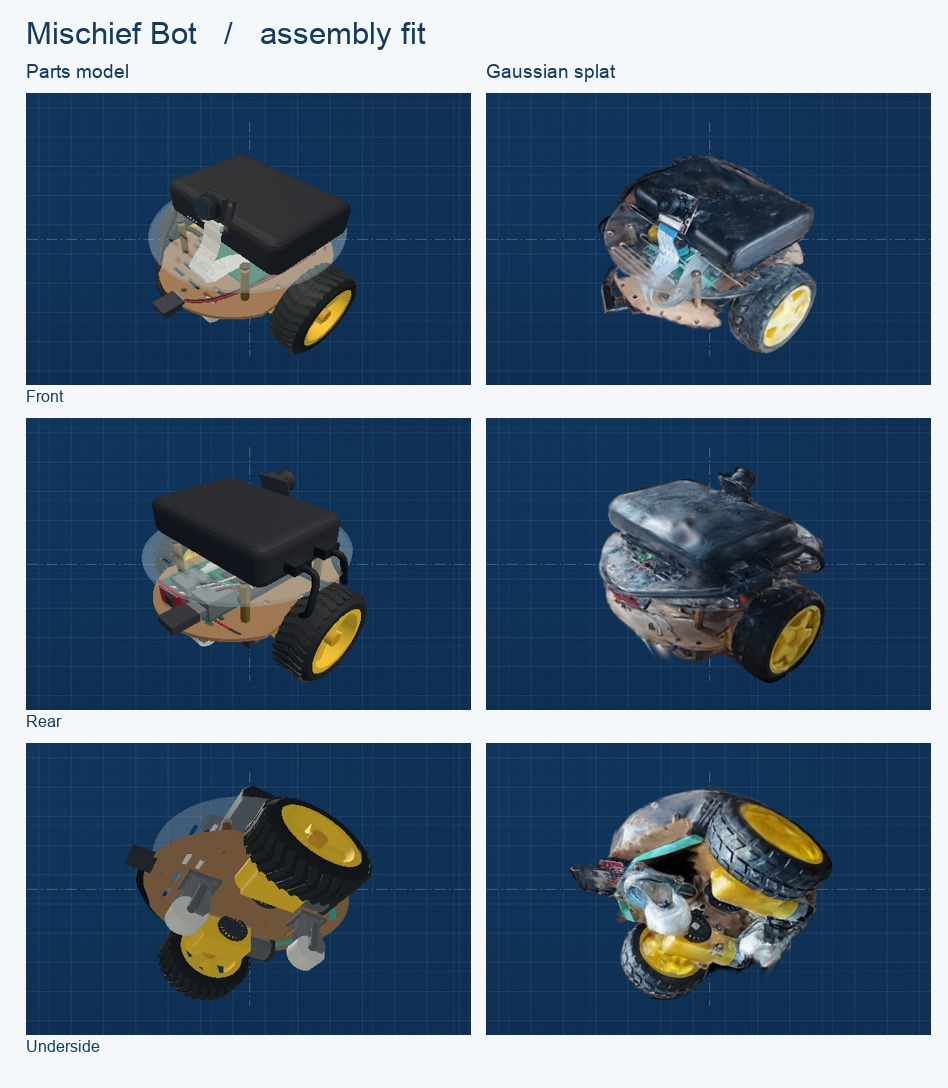
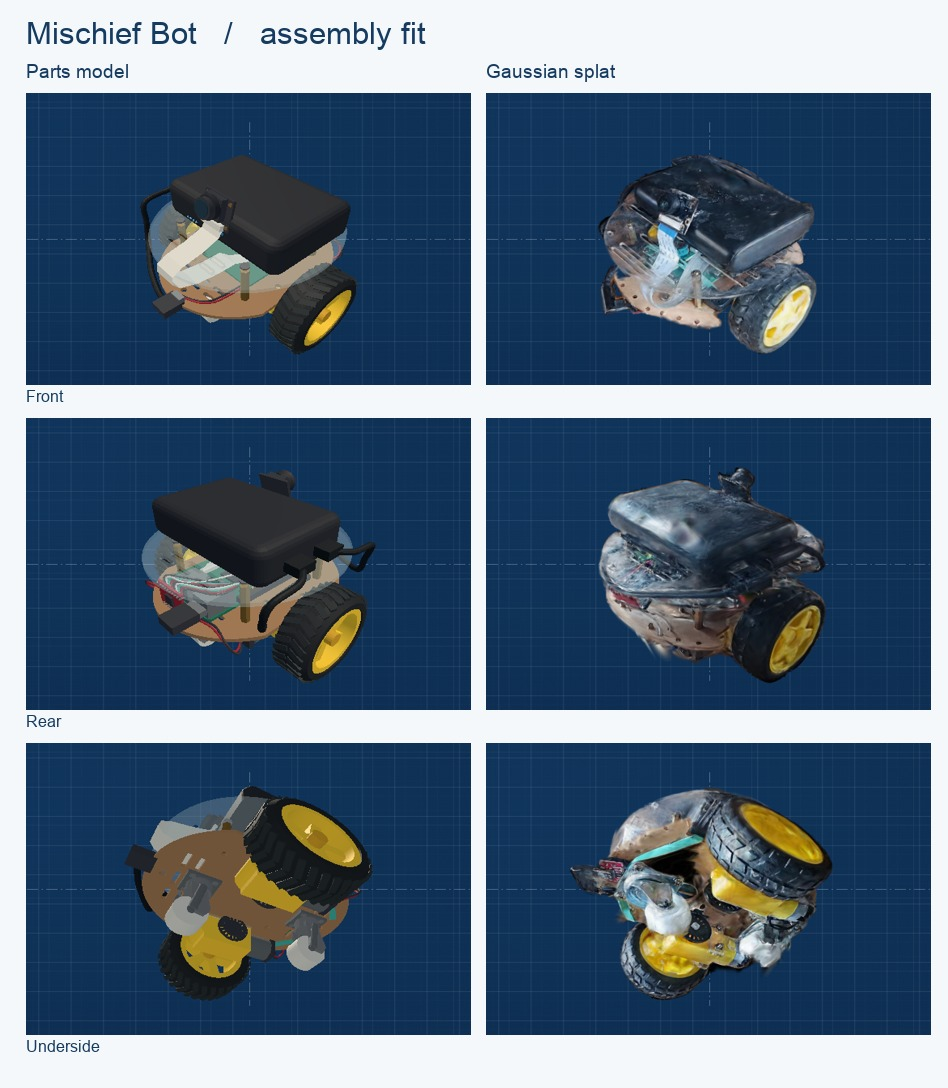
Refine connector clearances and refresh routed assembly previews

Changed region(s): [[0.153, 0.5, 0.3977, 0.5938], [0.153, 0.1562, 0.2447, 0.2812], [0.153, 0.75, 0.2141, 0.7812]]

diff --git a/model/build.py b/model/build.py
@@ -334,7 +334,7 @@ def electronics():
         bar("Anker battery", "led", (-24 + j * 3, 83, 31), (-24 + j * 3, 83, 32), 0.78)
     for j, z in enumerate([-14, 10]):
         n = ["Pi power cable", "Motor power cable"][j]
-        block(n, "seam", (-50, 87, z), (10, 6.5, 13))
+        block(n, "seam", (-52.5, 87, z), (10, 6.5, 13))
         # Drop past the rim at either end of the tire's swept volume.
         if j == 0:
             points = [
@@ -437,7 +437,7 @@ def electronics():
         if j:
             faces.extend([(2 * j - 2, 2 * j - 1, 2 * j), (2 * j, 2 * j - 1, 2 * j + 1)])
     put("CSI ribbon", "white", tm.Trimesh(verts, faces))
-    block("CSI ribbon", "blue", (5, 92, 33), (16, 4, 0.8))
+    block("CSI ribbon", "blue", (5, 91, 33), (16, 4, 0.8))
     n = "TB6612FNG driver"
     block(n, "red", (6, 52, -57), (24, 20, 1.6))
     block(n, "ink", (6, 52, -58.5), (7, 7, 1.8))
